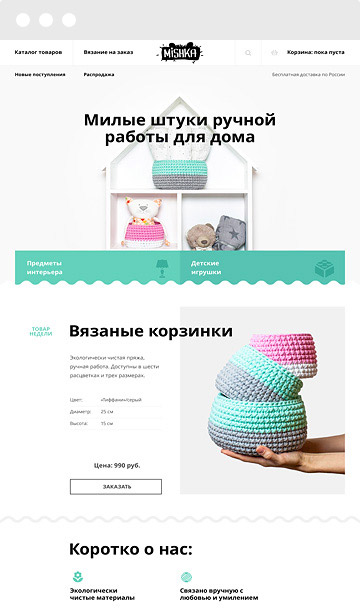
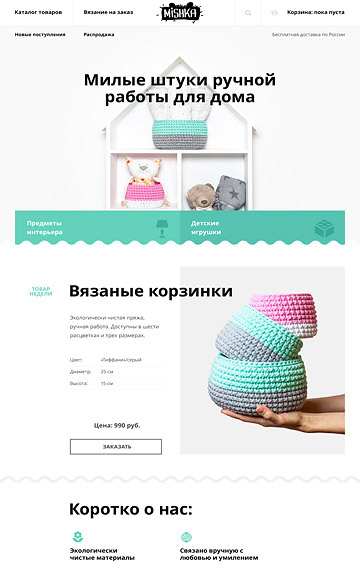
Перезалил svg и другие изображения и исправил замечание по checkbox

diff --git a/catalog.html b/catalog.html
@@ -54,23 +54,23 @@
         </p>
         <h3 class="header-filter">Особенности:</h3>
         <p class="filter-wrapper">
-          <input class="filter-item-name features" type="checkbox" checked id="filter-features-slider" name="grid" value="Слайдер">
+          <input class="filter-item-name features" type="checkbox" checked id="filter-features-slider" name="grid-slider">
           <label class="filter-item" for="filter-features-slider">Слайдер</label>
         </p>
         <p class="filter-wrapper">
-          <input class="filter-item-name features" type="checkbox" id="filter-features-advantages" name="grid" value="Блок преимуществ">
+          <input class="filter-item-name features" type="checkbox" id="filter-features-advantages" name="grid-advantages">
           <label class="filter-item" for="filter-features-advantages">Блок преимуществ</label>
         </p>
         <p class="filter-wrapper">
-          <input class="filter-item-name features" type="checkbox" checked id="filter-features-news" name="grid" value="Новости">
+          <input class="filter-item-name features" type="checkbox" checked id="filter-features-news" name="grid-news">
           <label class="filter-item" for="filter-features-news">Новости</label>
         </p>
         <p class="filter-wrapper">
-          <input class="filter-item-name features" type="checkbox" id="filter-features-galery" name="grid" value="Галерея">
+          <input class="filter-item-name features" type="checkbox" id="filter-features-galery" name="grid-galery">
           <label class="filter-item" for="filter-features-galery">Галерея</label>
         </p>
         <p class="filter-wrapper">
-          <input class="filter-item-name features" type="checkbox" id="filter-features-basket" name="grid" value="Корзина">
+          <input class="filter-item-name features" type="checkbox" id="filter-features-basket" name="grid-basket">
           <label class="filter-item" for="filter-features-basket">Корзина</label>
         </p>
         <button class="button" type="submit">Показать</button>
@@ -99,7 +99,7 @@
             </h3>
             <p class="catalog-item-image">
               <a class="catalog-item-image-link" href="#">
-                  <img class="catalog-item-img" src="img/img-sedona.jpg" weight="360" height="616" alt="Sedona">
+                  <img class="catalog-item-img" src="img/img-sedona.jpg" weight="360" height="576" alt="Sedona">
               </a>
             </p>
             <p class="catalog-item-description">Информационный сайт для туристов</p>
@@ -114,7 +114,7 @@
             </h3>
             <p class="catalog-item-image">
               <a class="catalog-item-image-link" href="#">
-                  <img class="catalog-item-img" src="img/img-pink.jpg" weight="360" height="616" alt="Pink">
+                  <img class="catalog-item-img" src="img/img-pink.jpg" weight="360" height="576" alt="Pink">
               </a>
             </p>
             <p class="catalog-item-description">Приложение для общения</p>
@@ -129,7 +129,7 @@
             </h3>
             <p class="catalog-item-image">
               <a class="catalog-item-image-link" href="#">
-                  <img class="catalog-item-img" src="img/img-borodinski.jpg" weight="360" height="616" alt="Pink">
+                  <img class="catalog-item-img" src="img/img-borodinski.jpg" weight="360" height="576" alt="Pink">
               </a>
             </p>
             <p class="catalog-item-description">Барбершоп</p>
@@ -144,7 +144,7 @@
             </h3>
             <p class="catalog-item-image">
               <a class="catalog-item-image-link" href="#">
-                  <img class="catalog-item-img" src="img/img-mishka.jpg" weight="360" height="616" alt="Mishka">
+                  <img class="catalog-item-img" src="img/img-mishka.jpg" weight="360" height="576" alt="Mishka">
               </a>
             </p>
             <p class="catalog-item-description">Милые штуки ручной работы для дома</p>
@@ -159,7 +159,7 @@
             </h3>
             <p class="catalog-item-image">
               <a class="catalog-item-image-link" href="#">
-                  <img class="catalog-item-img" src="img/img-aplus.jpg" weight="360" height="616" alt="Aplus">
+                  <img class="catalog-item-img" src="img/img-aplus.jpg" weight="360" height="576" alt="Aplus">
               </a>
             </p>
             <p class="description">Приложение для общения</p>
@@ -174,7 +174,7 @@
             </h3>
             <p class="catalog-item-image">
               <a class="catalog-item-image-link" href="#">
-                  <img class="catalog-item-img" src="img/img-kvast.jpg" weight="360" height="616" alt="Kvast">
+                  <img class="catalog-item-img" src="img/img-kvast.jpg" weight="360" height="576" alt="Kvast">
               </a>
             </p>
             <p class="catalog-item-description">Крафтовый квас всему голова</p>

diff --git a/index.html b/index.html
@@ -27,7 +27,7 @@
         <div class="slider-item">
           <b class="slider-name">Долго, дорого, скурпулезно.</b>
           <p class="slider-description">Математически выверенный дизайн для вашего сайта или мобильного приложения.</p>
-          <a class="button" href="web_sites.html">Узнать больше</a>
+          <a class="button" href="#">Узнать больше</a>
         </div>
         <div class="slider-item">
           <b class="slider-name">Любим математику как никто другой.</b>
@@ -97,10 +97,10 @@
     <section class="clients">
       <h2 class="visually-hidden">Наши клиенты</h2>
       <ul class="clients-list">
-        <li class="clients-item"><a class="clients-item-link" href="https://htmlacademy.ru/intensive/htmlcss"><img class="clients-item-img" src="img/htmlacademy.svg" alt="HTMLAcademy"></a></li>
-        <li class="clients-item"><a class="clients-item-link" href="clients.html"><img class="clients-item-img" src="img/borodinski.svg" alt="Borodinsky"></a></li>
-        <li class="clients-item"><a class="clients-item-link" href="clients.html"><img class="clients-item-img" src="img/pink.svg" alt="Pink"></a></li>
-        <li class="clients-item"><a class="clients-item-link" href="clients.html"><img class="clients-item-img" src="img/mishka.svg" alt="Mishka"></a></li>
+        <li class="clients-item"><a class="clients-item-link" href="https://htmlacademy.ru/intensive/htmlcss"><img class="clients-item-img" src="img/htmlacademy.png" alt="HTMLAcademy"></a></li>
+        <li class="clients-item"><a class="clients-item-link" href="clients.html"><img class="clients-item-img" src="img/borodinski.png" alt="Borodinsky"></a></li>
+        <li class="clients-item"><a class="clients-item-link" href="clients.html"><img class="clients-item-img" src="img/pink.png" alt="Pink"></a></li>
+        <li class="clients-item"><a class="clients-item-link" href="clients.html"><img class="clients-item-img" src="img/mishka.png" alt="Mishka"></a></li>
       </ul>
     </section>
 

diff --git a/contacts.html b/contacts.html
@@ -1,0 +1,28 @@
+<!DOCTYPE html>
+<html>
+  <head>
+    <meta charset="utf-8">
+    <title>Напишите нам</title>
+    <link rel="stylesheet" href="css/style.css">
+  </head>
+  <body>
+      <h1>Напишите нам</h1>
+      <span class="modal-close" aria-hidden="Закрыть">X</span>
+      <form class="user" method="post" action="https://echo.htmlacademy.ru">
+        <p>
+          <label for="user-name">Ваше имя:</label></br>
+          <input type="text" id="user-name" name="name" placeholder="Представьтесь, пожалуйста">
+        </p>
+        <p>
+          <label for="user-email">Ваш e-mail:</label></br>
+          <input type="email" id="user-email" name="email" placeholder="Для отправки ответа">
+        </p>
+        <p>
+          <label for="user-text">Текст письма:</label></br>
+          <textarea id="user-text" name="text" placeholder="В свободной форме">
+          </textarea>
+        </p>
+        <button class="button" type="submit">Отправить</button>
+      </form>
+  </body>
+</html>

diff --git a/css/style.css b/css/style.css
@@ -1,5 +1,5 @@
 body {
-  font-family: Roboto;
+  font-family: "Roboto", sans-serif;
 }
 
 .visually-hidden {
